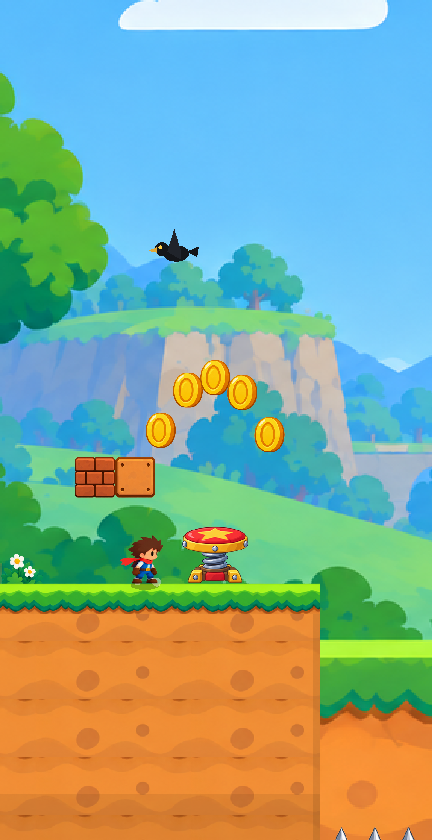
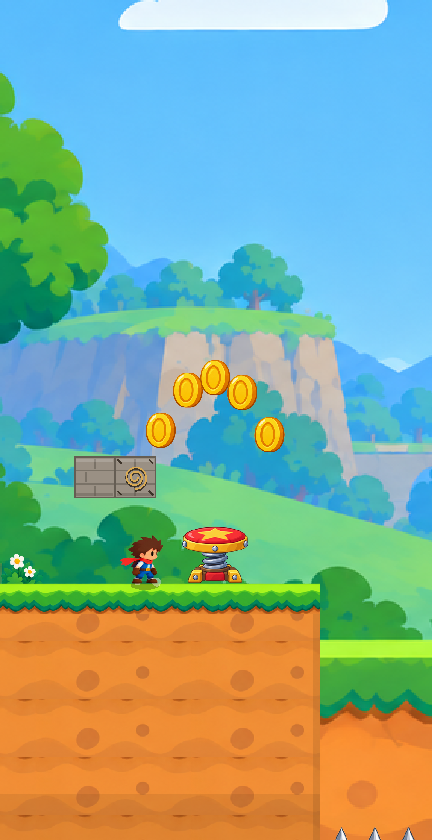
Rename to メロスゲーム, and keep the PRESENT SOFT boot screen
src/boot.gd is main's centred company mark; the private line's corner
wordmark is dropped. The game is メロスゲーム on both stores, the Android
launcher, the boot screen, the start screen and the connection diagnostic.

The stage-select cards are re-photographed: they are screenshots of the real
stages, so card_1_1.png still had the orange brick block and the ? block
baked into it.

Changed region(s): [[0.1505, 0.5262, 0.3611, 0.619], [0.3611, 0.2786, 0.4514, 0.3095]]

diff --git a/tools/extract_assets.py b/tools/extract_assets.py
@@ -1,7 +1,7 @@
 #!/usr/bin/env python3
 """Cut game sprites out of the three supplied concept mockups.
 
-The mockups ARE the art direction for 走れメロス, so lifting the artwork out of
+The mockups ARE the art direction for メロスゲーム, so lifting the artwork out of
 them is the closest match available -- every sprite ends up with the same paint,
 the same light direction and the same palette as the concept.
 

diff --git a/docs/store-listing.md b/docs/store-listing.md
@@ -1,4 +1,4 @@
-# ストア提出物 — 走れメロス 0.9.0
+# ストア提出物 — メロスゲーム 0.9.0
 
 App Store Connect と Google Play Console に**そのまま貼れる**文面と、
 どちらのフォームに何と答えるかをまとめたもの。ビルドの中身ではないので
@@ -21,7 +21,7 @@ bundle / package: `com.sasakiful.sidesky`（両プラットフォーム共通）
 
 | 欄 | 文字数上限 | 内容 |
 |---|---|---|
-| アプリ名 | iOS 30 / Play 30 | `走れメロス` |
+| アプリ名 | iOS 30 / Play 30 | `メロスゲーム` |
 | サブタイトル (iOS) | 30 | `ふたりで越える、非対称の協力プレイ` |
 | 簡単な説明 (Play) | 80 | `ひとりが走り、ひとりが世界を描き換える。通話しながら遊ぶ協力アクション。` |
 
@@ -70,9 +70,13 @@ bundle / package: `com.sasakiful.sidesky`（両プラットフォーム共通）
 
 ### English (secondary locale)
 
+> 英語名は `Melos Game` とした。日本語名が「メロスゲーム」になった以上、
+> 英語だけ `Run, Melos` のままにすると別のアプリに見える。変えたければ
+> ここ1か所で、ストアのフォームに入れる前に決めること。
+
 | Field | Content |
 |---|---|
-| Name | `Run, Melos` |
+| Name | `Melos Game` |
 | Subtitle | `Asymmetric co-op, two players` |
 | Short description | `One player runs. One rewrites the world. A co-op action game made for two.` |
 

diff --git a/docs/privacy-policy.md b/docs/privacy-policy.md
@@ -1,7 +1,7 @@
-# プライバシーポリシー / Privacy Policy — 走れメロス
+# プライバシーポリシー / Privacy Policy — メロスゲーム
 
 最終更新 / Last updated: 2026-09-26
-対象 / Applies to: 走れメロス (iOS `com.sasakiful.sidesky`, Android `com.sasakiful.sidesky`)
+対象 / Applies to: メロスゲーム (iOS `com.sasakiful.sidesky`, Android `com.sasakiful.sidesky`)
 
 > **公開前に1か所だけ埋めてください。** 下の「お問い合わせ / Contact」の
 > `<連絡先メールアドレス>` は、ストアの審査でも実際の問い合わせ窓口としても

diff --git a/docs/movement-plan.md b/docs/movement-plan.md
@@ -3,7 +3,7 @@
 基準コード: `d08e5e5d59f6184a9fc41de1d818f5464a31c5b1`。
 目標はDS版『New スーパーマリオブラザーズ』のように、入力と状況を組み合わせて
 着地点やジャンプ高を選べる操作。任天堂のコード・素材・解析値は使用していない。
-以下は走れメロス独自の調整開始値であり、マリオとの完全一致を検証した値ではない。
+以下はメロスゲーム独自の調整開始値であり、マリオとの完全一致を検証した値ではない。
 
 ## 実装順序
 

diff --git a/docs/monetization.md b/docs/monetization.md
@@ -1,6 +1,6 @@
 # 完全版買い切りとフレンドパス
 
-走れメロスは**基本無料**でダウンロードでき、**1-1 と 1-2 は誰でも遊べる**。
+メロスゲームは**基本無料**でダウンロードでき、**1-1 と 1-2 は誰でも遊べる**。
 1-3 / 1-4 / 1-5 は完全版（非消費型の一回限りのアプリ内課金）に含まれる。
 
 そして、**完全版を持っている人が作った部屋には、買っていない友達1人がそのまま

diff --git a/docs/eos-operations.md b/docs/eos-operations.md
@@ -1,6 +1,6 @@
 # EOS co-op operations
 
-The production co-op path has no 走れメロス application server. Devices sign
+The production co-op path has no メロスゲーム application server. Devices sign
 in with EOS Connect Device ID, discover a two-member EOS Lobby by a six-digit
 code, and exchange gameplay through EOS P2P. EOS may use its relay when direct
 NAT traversal fails. The old Cloudflare relay is not contacted by the co-op UI.

diff --git a/README.md b/README.md
@@ -1,4 +1,4 @@
-# 走れメロス
+# メロスゲーム
 
 ステージ **1-5「THE POISON MARSH」** を追加。毒沼の石足場・木橋・移動筏を渡り、
 3つの広い水路ではガーディアンの足場が必要です。

diff --git a/docs/status.md b/docs/status.md
@@ -1,4 +1,4 @@
-# 走れメロス — 現状まとめ
+# メロスゲーム — 現状まとめ
 
 最終更新 2026-09-12 / コミット `6fea643` / ブランチ `claude/coop-platformer-game-pfgass`
 
